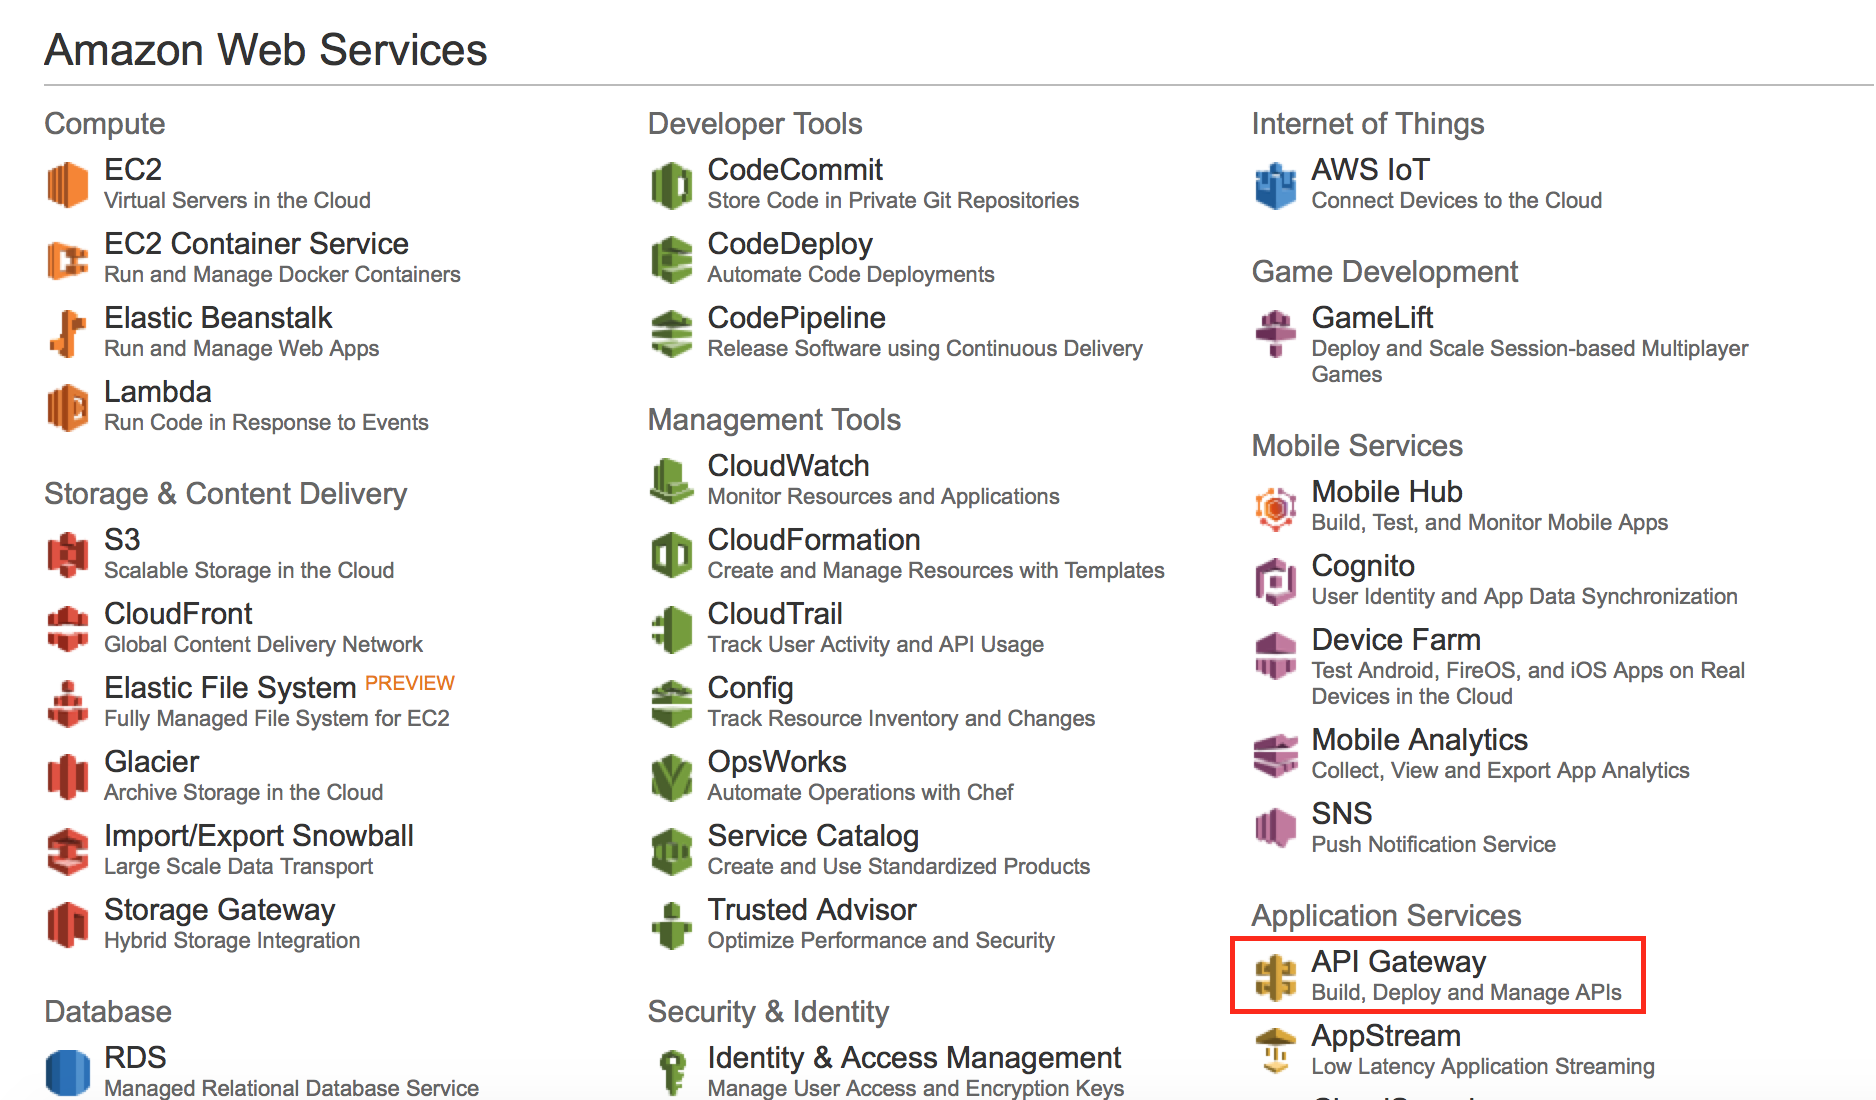
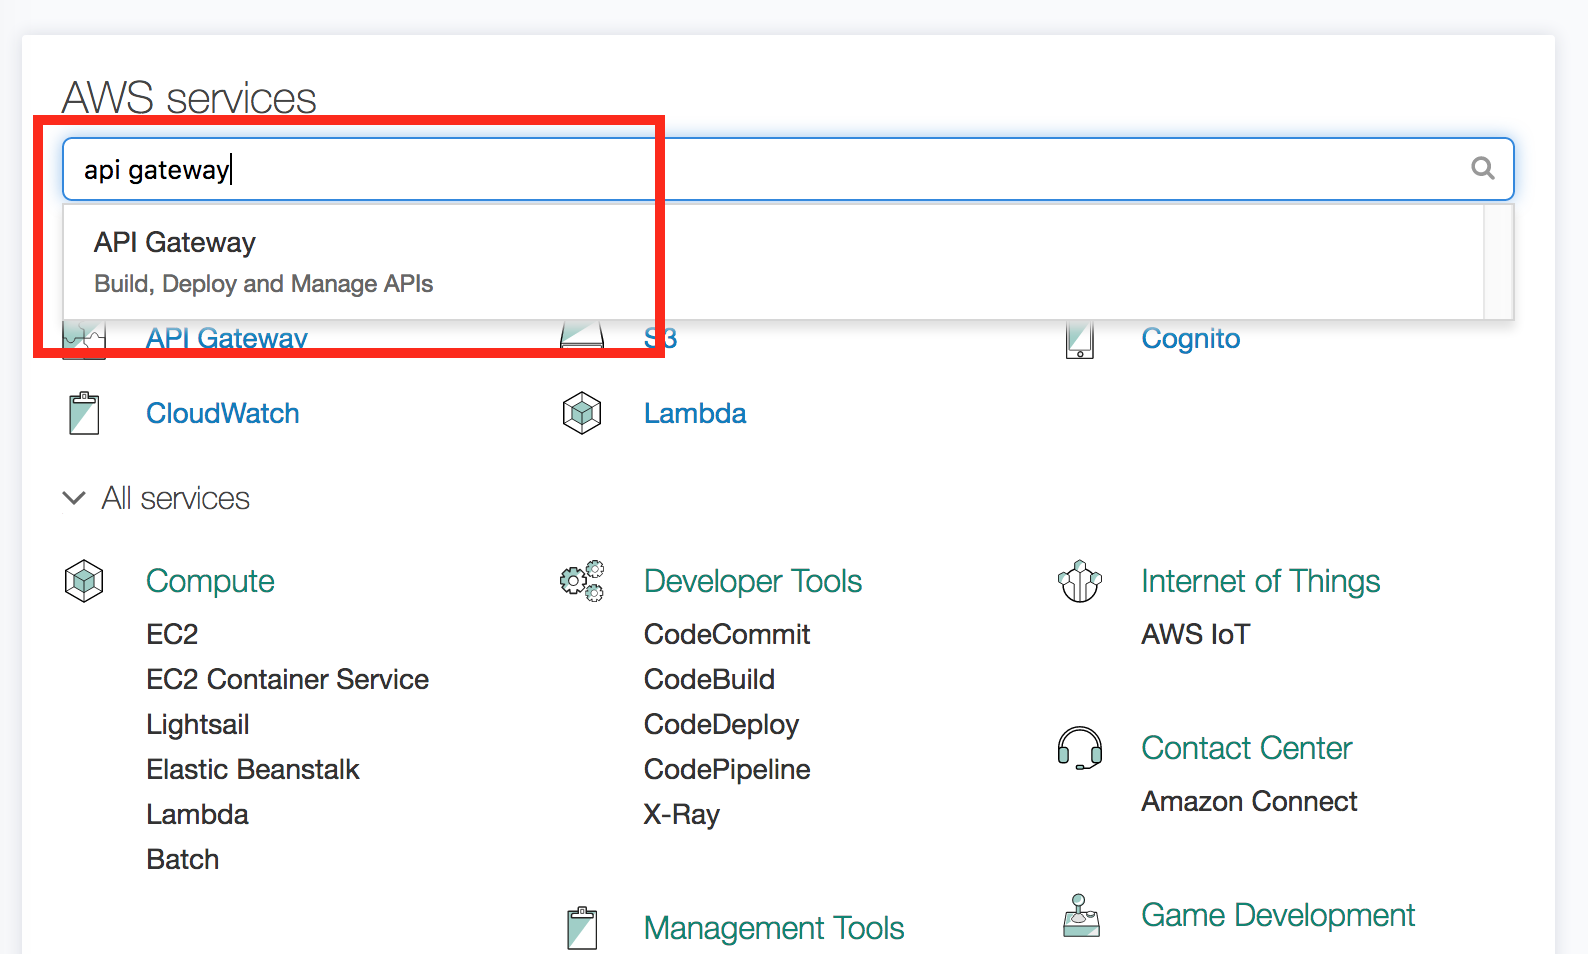
Updated the instructions for Lab 1 - Typing Indicator

diff --git a/README.md b/README.md
@@ -239,19 +239,21 @@ After confirming your account, sign in with your credentials and begin chatting!
 
 **What you'll do in this lab...**
 
-In this section you will create functionality that shows which survivors are currently typing in the chat room. To enable this, you'll modify the newly created API with Lambda functions to push typing metadata to a DynamoDB table that contains details about which survivors are typing. The survivor chat app continuously polls this API endpoint to determine who is typing. The typing indicator shows up in the web chat client in a section below the chat message panel. The UI and backend Lambda functions have been implemented, and this lab focuses on how to enable the feature in API Gateway.
+In this section you will create functionality in your chat application that allows survivors to see which survivors in the chat room are currently typing. To configure this functionality, you will modify your API to integrate with backend Lambda functions that are responsible for querying and returning the users currently typing in the system, as well as updating metadata in the "talkers" DynamoDB table that contains details about which survivors are typing at which times. The survivor chat app continuously polls this API endpoint with GET requests to determine who is typing. As survivors are typing, POST requests are made to this same endpoint to update the talkers DynamoDB table. 
+
+The typing indicator shows up in the web chat client in a section below the chat message panel. The UI and backend Lambda functions have already been implemented, and this lab focuses on how to configure your new integration in API Gateway.
 
 The application uses [CORS](http://docs.aws.amazon.com/AmazonS3/latest/dev/cors.html). This lab will both wire up the backend Lambda function as well as perform the necessary steps to enable CORS.
 
 **Typing Indicator Architecture**
 ![Overview of Typing Indicator Architecture](/Images/TypingIndicatorOverview.png)
 
-1\. Select the API Gateway Service from the main console page
+1\. Navigate to the API Gateway service. You can search for it on the main console homepage or type in the service name to quickly access the service (as shown below)
 ![API Gateway in Management Console](/Images/Typing-Step1.png)
 
-2\. Select the Zombie Workshop API Gateway.
+2\. On the APIs listing screen in API Gateway, click into your Zombie chat API. It should be prefixed with the name of your CloudFormation stack that launched it. By default this should be "zombiestack-". Select the Zombie Workshop API Gateway.
 
-3\. Go into the /zombie/talkers/GET method flow. Do this by clicking the "GET" method under the /zombie/talkers resource. This is highlighted in blue in the image below.
+3\. Click the **GET** method of your /zombie/talkers resource located at **/zombie/talkers/GET**. You can do this by clicking the "GET" method under the /zombie/talkers resource. The GET method is highlighted in blue in the image below. Click there.
 ![GET Method](/Images/Typing-Step3.png)
 
 *This GET HTTP method is used by the survivor chat app to perform continuous queries on the DynamoDB talkers table to determine which users are typing.*
@@ -262,9 +264,9 @@ The application uses [CORS](http://docs.aws.amazon.com/AmazonS3/latest/dev/cors.
 
 * Currently, this API method is configured to a "MOCK" integration. MOCK integrations are dummy backends that are useful when you are testing and don't yet have the backend built out but need the API to return sample dummy data. You will remove the MOCK integration and configure this GET method to connect to a Lambda function that queries DynamoDB.
 
-6\. For the **Lambda Region** field, select the region in which you launched the CloudFormation stack. (HINT: Select the region code that corresponds with the yellow CloudFormation button you clicked to launch the CloudFormation template). For example if you launched your stack in Virginia (us-east-1), then you will select us-east-1 as your Lambda Region.
+6\. For the **Lambda Region** field, select the region in which you launched the CloudFormation stack. (HINT: Select the region code that corresponds with the yellow CloudFormation button you clicked to launch the CloudFormation template. You can also look in the upper right corner of the Management Console to see which region you are in). For example if you launched your stack in Virginia (us-east-1), then you will select us-east-1 as your Lambda Region.
 
-* When you launched the CloudFormation template, it also created several Lambda functions for you locally in the region you selected, including functions for retrieving data from and putting data into a DynamoDB "Talkers" table with details about which survivors are currently typing in the chat room.
+* When you launched the CloudFormation template, the launch also created several Lambda functions for you locally in the region where you launched your CFN stack - this includes functions for retrieving data from and putting data into a DynamoDB "Talkers" table with details about which survivors are currently typing in the chat room.
 
 7\. For the Lambda Function field, begin typing "gettalkers" in the text box. In the auto-fill dropdown, select the function that contains "GetTalkersFromDynamoDB" in the name. It should look something like this.... **[CloudformationTemplateName]-[XXXXXXX]-GetTalkersFromDynamoDB-[Your Region]**.
 
@@ -272,19 +274,23 @@ The application uses [CORS](http://docs.aws.amazon.com/AmazonS3/latest/dev/cors.
 
 8\. Select the blue **Save** button and click **OK** if a pop up asks you to confirm that you want to switch to Lambda integration. Then grant access for API Gateway to invoke the Lambda function by clicking "OK" again. This 2nd popup asks you to confirm that you want to allow API Gateway to be able to invoke your Lambda function.
 
-9\. Click the Method Response section of the Method Execution Flow. You'll now tell API Gateway how what types of HTTP response types you want your API to expose.
+9\. Click the **Method Execution** back button to return to the method execution overview page. You'll now tell API Gateway what types of HTTP response types you want your API to expose. Click the **Method Response** section of the Method Execution Flow. 
 
 10\. Add a 200 HTTP Status response. Click "Add Response", type "200" in the status code text box and then click the little checkmark to save the method response, as shown below.
 ![Method Response](/Images/Typing-Step10.png)
 
-* You've configured the GET method of the /talkers resource to allow responses with HTTP status of 200. We could add more response types but we'll skip that for simplicity in this workshop.
+* You've configured the GET method of the /zombie/talkers resource to allow responses with HTTP status of 200. We could add more response types but we'll skip that for simplicity in this workshop.
 
 11\. Go to the /zombie/talkers/POST method by clicking the "POST" option in the resource tree on the left navigation pane.
 ![POST Method](/Images/Typing-Step11.png)
 
-12\. Perform Steps 4-10 again as you did for the GET method. However, this time when you are selecting the Lambda Function for the Integration Request, you'll type "writetalkers" in the auto-fill and select the function that looks something like this... **[CloudformationTemplateName]-[XXXXXXX]-WriteTalkersToDynamoDB-[Your Region]**. Don't forget to return to the Method Response section for this POST method and add a "200" HTTP response status as you did for the GET method earlier, if it doesn't exist already.
+12\. We're now going to configure to the /zombie/talkers resource to properly integrate with AWS Lambda on POST requests. 
 
-* In these steps you are configuring the POST method that is used by the chat app to insert data into DynamoDB Talkers table with details about which users are typing. You're performing the same exact method configuration for the POST method as you did for your GET method. However, since this POST method is used for sending data to the database, it triggers a different backend Lambda function. This function writes data to DynamoDB while the "GetTalkersToDynamoDB" function was used to retrieve data from DynamoDB.
+**Perform Steps 4-10 again** just as you did for the GET method. However, this time when you are selecting the Lambda Function for the Integration Request, you'll type "writetalkers" in the auto-fill and select the function that looks something like this... **[CloudformationTemplateName]-[XXXXXXX]-WriteTalkersToDynamoDB-[Your Region]**. This way on POST requests, API Gateway will invoke your **writetalkers** Lambda function. Don't forget to return to the Method Response section for this POST method and add a "200" HTTP response status as you did for the GET method earlier, if it doesn't exist already.
+
+* In these steps you are configuring the POST method that is used by the chat app to insert data into DynamoDB Talkers table with details about which users are typing. You're performing the same exact method configuration for the POST method as you did for your GET method. However, since this POST method is used for sending data to the database, it triggers a different backend Lambda function. This function writes data to DynamoDB while the "GetTalkersToDynamoDB" function was used to retrieve data from DynamoDB. 
+
+	* You could optionally include the logic for both the POST and GET operations inside of a single Lambda function with your own built-in logic that properly checks for and handles POSTs and GETs (or other actions).
 
 13\. Go to the /zombie/talkers/OPTIONS method
 
@@ -296,9 +302,9 @@ The application uses [CORS](http://docs.aws.amazon.com/AmazonS3/latest/dev/cors.
 
 17\. Select the Integration Response.
 
-18\. Add a new Integration response with a method response status of 200. Click the "Method response status" dropdown and select "200". (leaving the regex box blank). When done, click the blue **Save** button.
+18\. Add a new Integration response with a method response status of 200. Click the "Method response status" dropdown and select "200". Leave the "Content Handling" option set to **Passthrough**. When done, click the blue **Save** button.
 
-* In this section you configured the OPTIONS method simply to respond with HTTP 200 status code. The OPTIONS method type is simply used so that clients can retrieve details about the API resources that are available as well as the methods associated with them. Think of this as the mechanism that allows clients to query the API to learn what "Options" are available to them.
+* In this section you configured the OPTIONS method simply to respond with HTTP 200 status code. The OPTIONS method type is simply used so that clients can retrieve details about the API resources that are available as well as the methods associated with them. 
 
 19\. Select the /zombie/talkers resource on the left navigation tree.
 ![talker resource](/Images/Typing-Step19.png)
@@ -315,11 +321,11 @@ The application uses [CORS](http://docs.aws.amazon.com/AmazonS3/latest/dev/cors.
 
 23\. Select the ZombieWorkshopStage deployment and hit the Deploy button.
 
-* In this workshop we deploy the API to a stage called "ZombieWorkshopStage". In your real world scenario, you'll likely create stages such as "production" or "development" which align to the actual stages of your API development process.
+* In this workshop we deploy the API to a stage called "ZombieWorkshopStage". In your real world scenario, you'll likely create different stages of the API to reflect different versions that you'd like to maintain.
 
 **LAB 1 COMPLETE**
 
-Head back to the survivor chat app and as you type, POST requests are being made to the Talkers API resource which is updating a DynamoDB table continuously with timestamps along with who is typing. Continuous polling (GET Requests) on that table (via API Gateway GET Requests to the /talkers resource) also occurs to determine which survivors are typing, which updates the "Users Typing" field in the web app.
+Head back to the survivor chat app and **Refresh the page** type messages. POST requests are being made to the Talkers API resource which is updating a DynamoDB table continuously with timestamps along with who is typing. Simultaneously, the application is performing a continuous polling (GET Requests) against /zombie/talkers to show which survivors are typing. This displays
 
 ![talker resource](/Images/Typing-Done.png)
 
